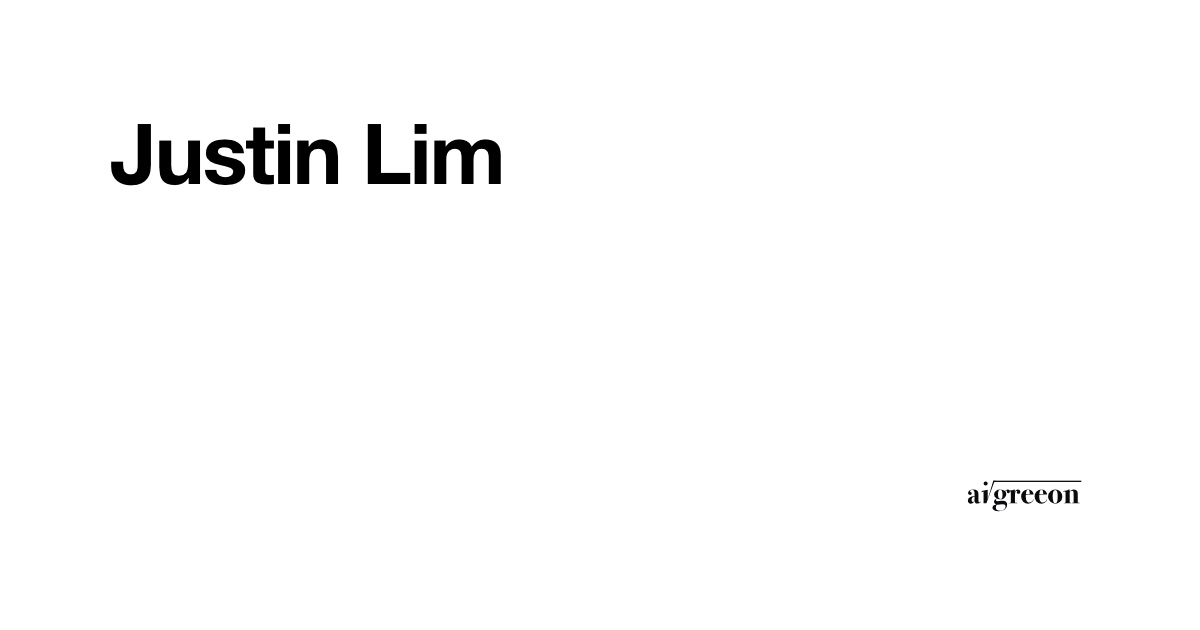
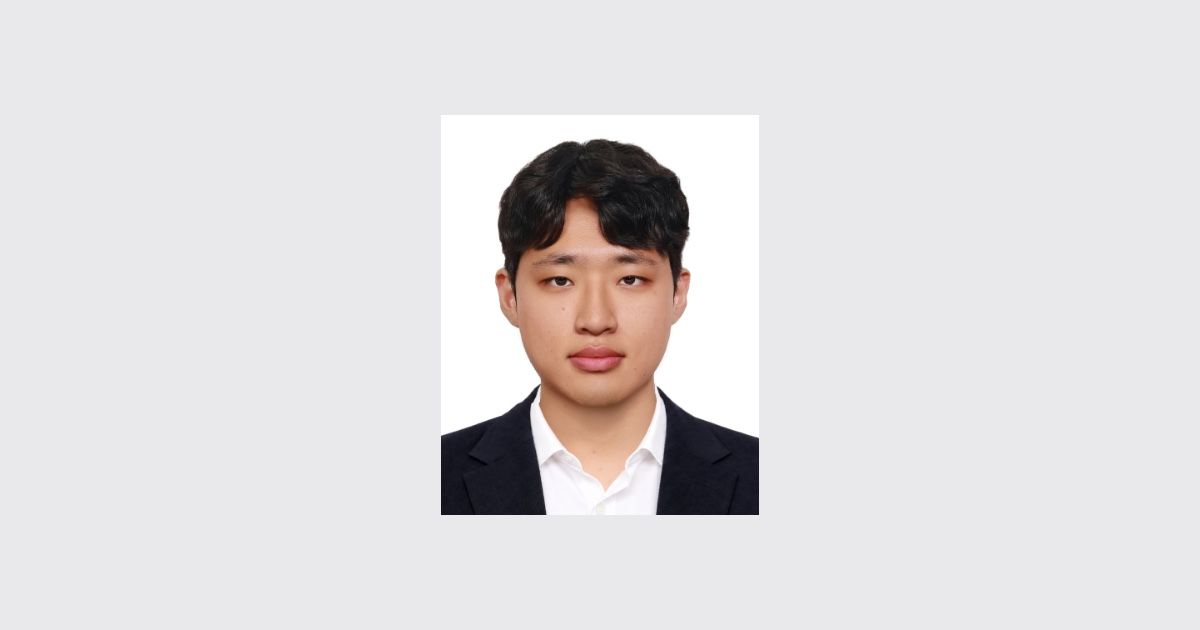
Use zoomed-out profile photo for link preview

Changed region(s): [[0.0925, 0.181, 0.6475, 0.8444], [0.8017, 0.754, 0.8942, 0.8143]]

diff --git a/public/ko/index.html b/public/ko/index.html
@@ -7,7 +7,7 @@
 	<title>임준현 (Justin Lim)</title>
 	<meta property="og:title" content="Justin Lim">
 	<meta property="og:description" content="@ex-Typa (YC S24)">
-	<meta property="og:image" content="https://justinl.im/og.jpg?v=4">
+	<meta property="og:image" content="https://justinl.im/og.jpg?v=5">
 	<meta property="og:image:width" content="1200">
 	<meta property="og:image:height" content="630">
 	<meta property="og:url" content="https://justinl.im/ko/">

diff --git a/public/index.html b/public/index.html
@@ -7,7 +7,7 @@
 	<title>Justin Lim</title>
 	<meta property="og:title" content="Justin Lim">
 	<meta property="og:description" content="@ex-Typa (YC S24)">
-	<meta property="og:image" content="https://justinl.im/og.jpg?v=4">
+	<meta property="og:image" content="https://justinl.im/og.jpg?v=5">
 	<meta property="og:image:width" content="1200">
 	<meta property="og:image:height" content="630">
 	<meta property="og:url" content="https://justinl.im/">
